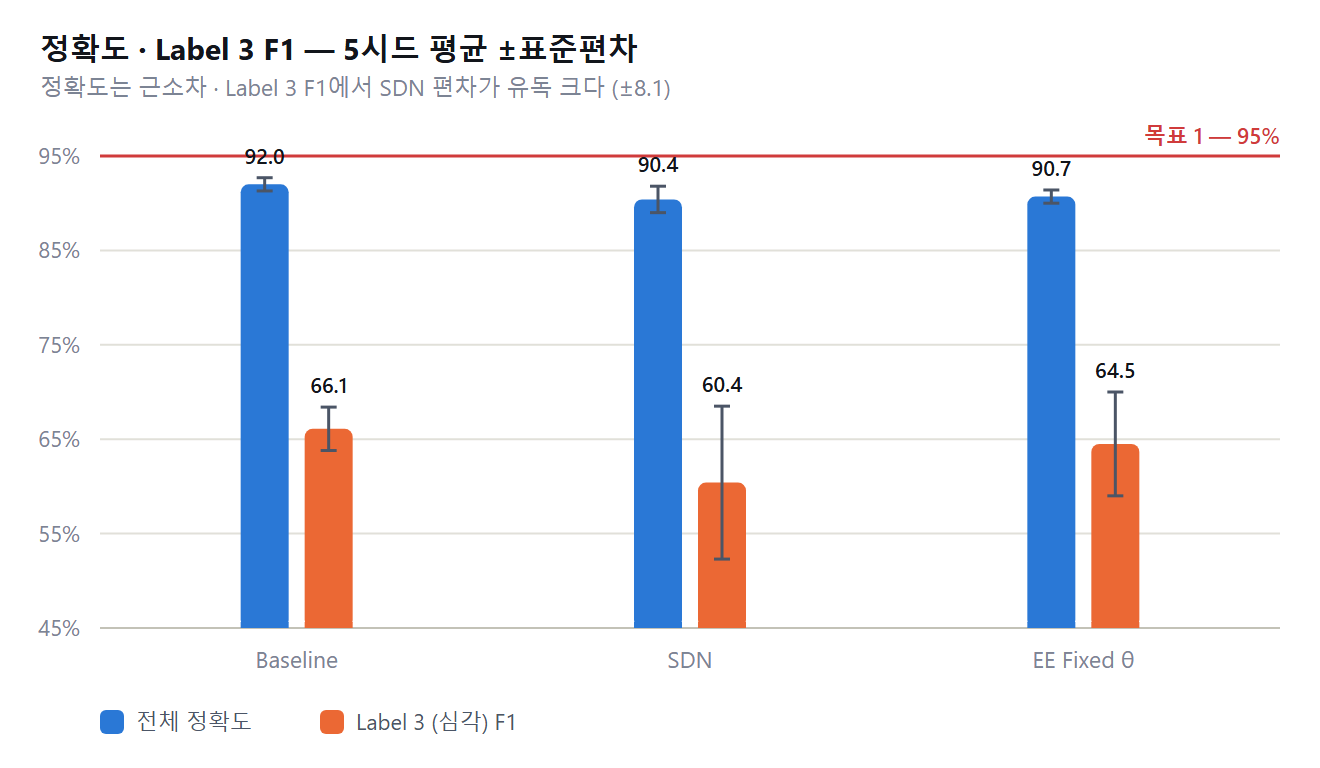
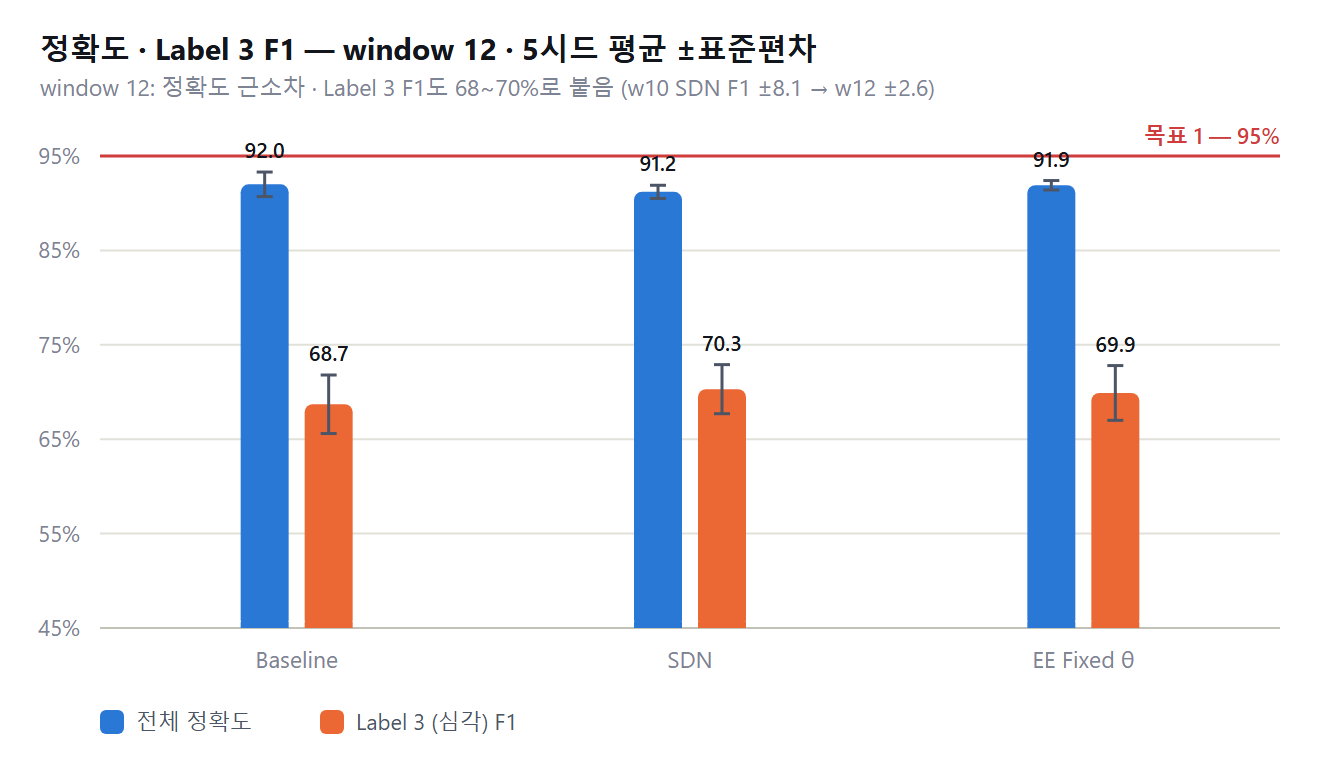
window-12 ripple: single-source WINDOW_SIZE, runtime deque, doc/graph refresh
- utils/ap_features.py: add WINDOW_SIZE = 12 as the single source; prepare +
  ap_dataloader import it instead of a local literal.
- live_congestion.py / demo_server.py (repo + Pi bundle): WINDOW 10 -> 12,
  byte-identical across repo/bundle kept. ONNX still bakes 10 so live
  inference stays blocked until re-export (noted in the constant's comment).
- sdn_comparison.html §02/§04, model_results.html charts+table: w12 numbers,
  Pi-latency marked STALE (w10, Pi offline).
- figures/build_figures.js MODELS -> w12; SVG + 2x PNG regenerated with
  stale-latency subtitles.
- .work-log 15th: split "done" vs "Pi-blocked" (ONNX re-export + latency).

Still Pi-blocked: ONNX re-export, on-Pi verify, latency re-measure, bundle redeploy.

Claude-Session: https://claude.ai/code/session_01GxbAGv5yNDTQzGcJWEdkNi

diff --git a/docs/yongsang/model_results.html b/docs/yongsang/model_results.html
@@ -133,32 +133,32 @@
   <header class="page-head">
     <p class="eyebrow">AP 트래픽 혼잡 분류 — Capstone 2026</p>
     <h1>모델 비교 결과 — 정확도 · 지연</h1>
-    <p><code>ap_model_comparison_redesign2.{txt,csv}</code>와 <code>ap_v2_redesign2_pi_latency_comparison.txt</code>의 수치를 그래프로. 기준 = <b>5시드 평균</b>(power=0.0), 지연은 <b>Raspberry Pi INT8 실측</b>(test 310창).</p>
+    <p><code>ap_model_comparison_redesign2.{txt,csv}</code>의 수치를 그래프로. 기준 = <b>window 12 · 5시드 평균</b>(power=0.0, test 309창, 2026-09-01). ⚠ <b>지연 차트는 window 10 잠정치</b> — window 12 Pi 재측정 대기(Pi 오프라인).</p>
   </header>
 
   <section>
     <h2><span class="step">목표</span> 발표 정량 목표 대비</h2>
     <div class="kpis">
       <div class="kpi">
-        <div class="lab">목표 1 — Pi 환경 혼잡 분류 정확도 ≥ 95%</div>
-        <div class="val">90 ~ 92%</div>
-        <div class="sub miss">✗ 미달 — 5시드 평균 Baseline 92.0 / SDN 90.4 / Proposed 90.7%</div>
+        <div class="lab">목표 1 — Pi 환경 혼잡 분류 정확도 ≥ 95% (발표 시스템 = Early Exit 기준)</div>
+        <div class="val">Proposed 91.9 ~ 92.0%</div>
+        <div class="sub miss">✗ 미달 (~3pt) — EE Fixed 91.9 / Dynamic 92.0 (5시드). w10 대비 +1.2~1.3pt. 상한선 Baseline 92.0 / SDN 91.2.</div>
       </div>
       <div class="kpi">
         <div class="lab">목표 2 — 추론 지연 &lt; 1 ms</div>
         <div class="val">0.54 ~ 0.75 ms</div>
-        <div class="sub hit">✓ 달성 — 4개 모델 전부 &lt; 1 ms (Pi INT8)</div>
+        <div class="sub hit">✓ 달성 (window 10 기준) — 4개 모델 전부 &lt; 1 ms. window 12 재측정 대기, &lt;1ms 유지 전망.</div>
       </div>
     </div>
   </section>
 
   <section>
     <h2><span class="step">01</span> 정확도 vs 지연 — 한 장</h2>
-    <p class="lede">세 모델의 정확도는 오차범위 안에서 겹친다(세로 폭). 갈리는 건 지연(가로) — <b>Proposed(Early Exit)가 가장 빠르다</b>. Proposed의 가치 주장이 "정확도"가 아니라 "속도·효율"인 이유.</p>
+    <p class="lede">세 모델의 정확도는 오차범위 안에서 겹친다(세로 폭). 갈리는 건 지연(가로) — <b>Proposed(Early Exit)가 가장 빠르다</b>. Proposed의 가치 주장이 "정확도"가 아니라 "속도·효율"인 이유. (정확도 = window 12 5시드, 지연 = window 10 잠정.)</p>
     <div class="charts">
       <div class="chart" style="grid-column:1 / -1;">
         <h3>정확도 vs Pi INT8 지연</h3>
-        <p class="csub">세로 막대 = 5시드 표준편차(±1σ) · 가로축 잘림 주의(0.50 ms부터)</p>
+        <p class="csub">정확도 = w12 5시드 · 세로 막대 = ±1σ · 지연 = w10 잠정 · 가로축 0.50 ms부터</p>
         <svg id="c-scatter" viewBox="0 0 640 340" role="img" aria-label="정확도 대 지연 산점도"></svg>
       </div>
     </div>
@@ -166,7 +166,7 @@
 
   <section>
     <h2><span class="step">02</span> 정확도와 희소클래스 안정성</h2>
-    <p class="lede">전체 정확도(파랑)는 셋이 근소차. <b>Label 3(심각) F1</b>(주황)에서 SDN의 편차가 유독 크다(±8.1) — per-model 캘리브레이션 <code>T</code>가 작은 val 셋에서 시드마다 요동하기 때문. Proposed의 entropy θ는 그 캘리브레이션이 불필요.</p>
+    <p class="lede">전체 정확도(파랑)는 셋이 근소차. <b>Label 3(심각) F1</b>(주황)도 window 12에서 68~70%로 붙었다. window 10에선 SDN F1 편차가 ±8.1로 유독 컸는데(per-model 캘리브레이션 <code>T</code>가 작은 val에서 요동), <b>window 12로 전 모델 F1 분산이 절반 이하로</b> (SDN ±2.6, EE ±2.9).</p>
     <div class="charts">
       <div class="chart" style="grid-column:1 / -1;">
         <h3>정확도 · Label 3 F1 — 5시드 평균 ±표준편차</h3>
@@ -181,12 +181,12 @@
   </section>
 
   <section>
-    <h2><span class="step">03</span> Pi INT8 추론 지연</h2>
-    <p class="lede">전부 목표 2(&lt;1 ms) 달성. Early Exit가 Baseline보다 <b>−28%</b>. SDN(0.572)이 Proposed(0.540)보다 느린 건 pooling internal classifier(매 exit마다 ReduceMax+Mean)가 last-timestep linear head보다 무겁기 때문.</p>
+    <h2><span class="step">03</span> Pi INT8 추론 지연 <span style="font-size:0.8rem;color:var(--target);font-weight:600;">⚠ window 10 잠정치</span></h2>
+    <p class="lede">전부 목표 2(&lt;1 ms) 달성. Early Exit가 Baseline보다 <b>−28%</b>. SDN(0.572)이 Proposed(0.540)보다 느린 건 pooling internal classifier(매 exit마다 ReduceMax+Mean)가 last-timestep linear head보다 무겁기 때문. <b>이 수치는 window 10 기준</b> — window 12는 LSTM step 2회 추가라 소폭 증가 예상(여전히 &lt;1ms 전망), Pi 재측정 대기.</p>
     <div class="charts">
       <div class="chart" style="grid-column:1 / -1;">
-        <h3>Pi INT8 평균 추론 지연 (ms / sample)</h3>
-        <p class="csub"><code>capstone@192.168.8.109</code> · test 310창 · 5회 반복 평균 · 2026-08-30</p>
+        <h3>Pi INT8 평균 추론 지연 (ms / sample) — window 10</h3>
+        <p class="csub"><code>capstone@192.168.8.109</code> · 5회 반복 평균 · 2026-08-30 · <b>window 12 재측정 대기</b></p>
         <svg id="c-lat" viewBox="0 0 640 300" role="img" aria-label="Pi INT8 지연 막대 그래프"></svg>
       </div>
     </div>
@@ -194,7 +194,7 @@
 
   <section>
     <h2><span class="step">04</span> Early Exit 종료 지점 분포</h2>
-    <p class="lede">Baseline은 조기종료가 없어 항상 exit 3(3개 LSTM 층 전부). Proposed는 대부분 exit 1~2에서 끝난다 — 이게 속도·연산량 이득의 실체. Dynamic θ는 Fixed보다 더 얕게 빠진다(exit 3 도달 10%).</p>
+    <p class="lede">Baseline은 조기종료가 없어 항상 exit 3(3개 LSTM 층 전부). Proposed는 대부분 exit 1~2에서 끝난다 — 이게 속도·연산량 이득의 실체. Dynamic θ는 Fixed보다 더 얕게 빠진다(exit 3 도달 15%). (window 12 배포 체크포인트 기준.)</p>
     <div class="charts">
       <div class="chart" style="grid-column:1 / -1;">
         <h3>샘플이 어느 exit에서 종료됐나 (%)</h3>
@@ -221,14 +221,14 @@
       <tbody id="tbl"></tbody>
     </table>
     </div>
-    <p style="font-size:0.8rem;color:var(--ink-mute);margin-top:0.8rem;">Dynamic θ는 5시드 특성화 대상이 아님(EE 백본의 threshold 정책) — 값은 배포 체크포인트. 배포 단일 체크포인트 정확도는 test draw 편차로 5시드 평균과 ±1pt 다를 수 있어 <b>5시드 평균을 기준 수치로 인용</b>.</p>
+    <p style="font-size:0.8rem;color:var(--ink-mute);margin-top:0.8rem;">정확도·F1 = window 12 5시드 test 평균(2026-09-01). exit = 배포 체크포인트. <b>Pi 지연(avg/p95) = window 10 STALE</b> — window 12 Pi 재측정 대기(Pi 오프라인). Dynamic θ는 EE 백본의 threshold 정책이라 5시드 표는 참고치. 배포 단일 체크포인트 정확도는 test draw 편차로 5시드 평균과 ±1pt 다를 수 있어 <b>5시드 평균을 기준 수치로 인용</b>.</p>
   </section>
 
-  <div class="callout"><span>▸</span><span><b>서사 한 줄:</b> 세 모델 정확도가 5시드 평균으로 사실상 동급(목표1은 셋 다 미달) → Proposed(Early Exit)의 가치는 정확도가 아니라 <b>속도·효율</b>(목표2 &lt;1ms 달성, Baseline 대비 −28%) + "간섭 감지에 Early Exit LSTM 최초 적용". 모델 3종의 구조적 차이는 <code>sdn_comparison.html</code>.</span></div>
+  <div class="callout"><span>▸</span><span><b>서사 한 줄:</b> window 10→12로 EE 정확도 90.7→91.9~92.0%(+1.2~1.3pt), Label 3 F1 분산은 전 모델 절반 이하로. 세 모델은 5시드 평균으로 여전히 동급(목표1은 셋 다 미달, ~3pt) → Proposed(Early Exit)의 가치는 정확도가 아니라 <b>속도·효율</b> + "간섭 감지에 Early Exit LSTM 최초 적용". 모델 3종의 구조적 차이는 <code>sdn_comparison.html</code>.</span></div>
 
   <footer class="page-foot">
     <span>발표용 이미지(SVG·PNG): <code>docs/yongsang/figures/</code> — 슬라이드·PDF에 바로 삽입</span>
-    <span>수치 정본: <code>project/results/yongsang/ap_model_comparison_redesign2.{txt,csv}</code> · <code>project/results/yongsang/ap_v2_redesign2_pi_latency_comparison.txt</code> · <code>.work-log/current.md</code> 7~9차</span>
+    <span>수치 정본: <code>project/results/yongsang/ap_model_comparison_redesign2.{txt,csv}</code> · <code>.work-log/current.md</code> 15차 (window 12). 지연: <code>ap_v2_redesign2_pi_latency_comparison.txt</code> (window 10, 재측정 대기)</span>
     <span>관련: <code>docs/yongsang/sdn_comparison.html</code> (모델 3종 구조 차이) · <code>docs/yongsang/onnx_early_exit_redesign.html</code> (INT8 배포) · <code>docs/yongsang/system_overview.html</code> (전체 개요)</span>
   </footer>
 </main>
@@ -243,12 +243,15 @@
   function txt(e,s){e.appendChild(document.createTextNode(s));return e;}
   function cssv(n){return getComputedStyle(document.documentElement).getPropertyValue(n).trim();}
 
+  // window 12 (2026-09-01). acc/F1 = 5시드 test 평균 ±std. exit = 배포 체크포인트.
+  // pi/p95 = window 10 STALE — window 12 Pi 재측정 대기 (Pi 오프라인).
   var MODELS=[
-    {key:"baseline",name:"Baseline (EE 없음)",acc:92.0,accSd:0.7,f1:66.1,f1Sd:2.3,pi:0.746,p95:0.754,exits:[0,0,100],basis:"standard full-depth LSTM",fam:"baseline"},
-    {key:"sdn",name:"SDN (논문 충실)",acc:90.4,accSd:1.4,f1:60.4,f1Sd:8.1,pi:0.572,p95:0.858,exits:[36,33,31],basis:"Kaya et al. ICML 2019",fam:"sdn"},
-    {key:"eef",name:"Proposed EE · Fixed θ",acc:90.7,accSd:0.7,f1:64.5,f1Sd:5.5,pi:0.540,p95:0.858,exits:[30,51,19],basis:"제안 — entropy θ 고정",fam:"proposed"},
-    {key:"eed",name:"Proposed EE · Dynamic θ",acc:91.0,accSd:null,f1:69.4,f1Sd:null,pi:0.555,p95:0.913,exits:[32,58,10],basis:"제안 — 트래픽 적응형 θ",fam:"proposed"}
+    {key:"baseline",name:"Baseline (EE 없음)",acc:92.0,accSd:1.3,f1:68.7,f1Sd:3.1,pi:0.746,p95:0.754,exits:[0,0,100],basis:"standard full-depth LSTM",fam:"baseline"},
+    {key:"sdn",name:"SDN (논문 충실)",acc:91.2,accSd:0.7,f1:70.3,f1Sd:2.6,pi:0.572,p95:0.858,exits:[51,32,18],basis:"Kaya et al. ICML 2019",fam:"sdn"},
+    {key:"eef",name:"Proposed EE · Fixed θ",acc:91.9,accSd:0.5,f1:69.9,f1Sd:2.9,pi:0.540,p95:0.858,exits:[31,43,26],basis:"제안 — entropy θ 고정",fam:"proposed"},
+    {key:"eed",name:"Proposed EE · Dynamic θ",acc:92.0,accSd:0.2,f1:69.6,f1Sd:3.6,char5:false,pi:0.555,p95:0.913,exits:[32,53,15],basis:"제안 — 트래픽 적응형 θ",fam:"proposed"}
   ];
+  var PI_STALE=true;
   var FAMC={baseline:"--s-gray",sdn:"--s-orange",proposed:"--s-blue"};
 
   // ---- tooltip ----
@@ -283,7 +286,7 @@
     var svg=document.getElementById("c-scatter"); if(!svg) return;
     var W=640,H=340, L=52,R=18,T=18,B=44;
     var x0=0.50,x1=0.80, y0=88,y1=96;
-    var pts=MODELS.filter(function(m){return m.accSd!=null;});
+    var pts=MODELS.filter(function(m){return m.char5!==false;});
     function px(v){return L+(v-x0)/(x1-x0)*(W-L-R);}
     function py(v){return T+(1-(v-y0)/(y1-y0))*(H-T-B);}
     // grid + y ticks
@@ -330,7 +333,7 @@
     var svg=document.getElementById("c-acc"); if(!svg) return;
     var W=640,H=320,L=44,R=16,T=16,B=54;
     var y0=45,y1=95;
-    var rows=MODELS.filter(function(m){return m.accSd!=null;});
+    var rows=MODELS.filter(function(m){return m.char5!==false;});
     var n=rows.length, band=(W-L-R)/n, bw=22, gap=6;
     function py(v){return T+(1-(v-y0)/(y1-y0))*(H-T-B);}
     for(var yv=45;yv<=95;yv+=10){

diff --git a/docs/yongsang/sdn_comparison.html b/docs/yongsang/sdn_comparison.html
@@ -273,11 +273,11 @@
       <thead><tr><th>항목</th><th>고정값 (양쪽 동일)</th></tr></thead>
       <tbody>
         <tr><td>백본</td><td>3층 단방향 LSTM, <code>hidden_size 128</code>, <code>dropout 0.2</code>, <code>num_classes 4</code></td></tr>
-        <tr><td>입력</td><td>7-feature, window 10 — 텐서 <code>[B, 10, 7]</code> (<code>ap_metrics_v2_redesign2</code>)</td></tr>
+        <tr><td>입력</td><td>7-feature, window 12 — 텐서 <code>[B, 12, 7]</code> (<code>ap_metrics_v2_redesign2</code>, 2026-09-01 10→12)</td></tr>
         <tr><td>학습</td><td>Adam, <code>lr 0.001</code>, <code>batch 32</code>, <code>epochs 50</code>, 체크포인트 선택 = val balanced accuracy</td></tr>
         <tr><td>클래스 가중치</td><td><code>class-weight-power = 0.0</code> (plain CE, 가중치 없음) — 2026-08-30 재스윕 결과, 세 모델 공통</td></tr>
         <tr><td>최종 헤드 (exit 3)</td><td>마지막 timestep hidden → Linear. <b>SDN도 우리도 동일</b> = <code>BaselineLSTM</code> 헤드. SDN 원칙 "기존 네트워크에 IC만 추가, 최종 헤드는 유지".</td></tr>
-        <tr><td>평가</td><td>동일 test split (310창, label3 31개), 동일 리포트 스크립트</td></tr>
+        <tr><td>평가</td><td>동일 test split (309창, label3 31개), 동일 리포트 스크립트</td></tr>
       </tbody>
     </table>
     </div>
@@ -336,41 +336,41 @@
     <h2><span class="step">04</span> 결과 — 어떻게 갈리나</h2>
     <p class="lede">모든 수치 <code>class-weight-power=0.0</code>. <b>5시드 평균</b>을 기준 수치로 인용(단일 체크포인트는 test draw 편차가 있음). 그래프로 보려면 <code>docs/yongsang/model_results.html</code>.</p>
 
-    <h3 style="font-size:0.92rem; margin:1.6rem 0 0.5rem;">5시드 특성화 (시드 0~4 test 평균)</h3>
+    <h3 style="font-size:0.92rem; margin:1.6rem 0 0.5rem;">5시드 특성화 (window 12, 시드 0~4 test 평균 · 2026-09-01)</h3>
     <div class="tw">
     <table class="grid">
-      <thead><tr><th>모델</th><th class="n">정확도</th><th class="n">Label3 F1</th><th class="n">Label3 recall</th><th class="n">Pi INT8 지연</th></tr></thead>
+      <thead><tr><th>모델</th><th class="n">정확도</th><th class="n">Label3 F1 (w10 → w12)</th><th class="n">Label3 recall</th></tr></thead>
       <tbody>
-        <tr><td>Baseline LSTM <span style="color:var(--ink-mute)">(EE 없음)</span></td><td class="n">92.0% ±0.7</td><td class="n">66.1% ±2.3</td><td class="n">54.2% ±3.8</td><td class="n">0.746 ms</td></tr>
-        <tr><td class="sdn">SDN <span style="color:var(--ink-mute)">(논문 충실)</span></td><td class="n">90.4% ±1.4</td><td class="n">60.4% <b>±8.1</b></td><td class="n">45.8% ±8.8</td><td class="n">0.572 ms</td></tr>
-        <tr><td class="ours">Proposed EE (Fixed θ)</td><td class="n">90.7% ±0.7</td><td class="n">64.5% ±5.5</td><td class="n">51.0% ±6.6</td><td class="n"><span class="win">0.540 ms</span></td></tr>
+        <tr><td>Baseline LSTM <span style="color:var(--ink-mute)">(EE 없음)</span></td><td class="n">92.0% ±1.3</td><td class="n">66.1 → 68.7% ±3.1</td><td class="n">57.4% ±3.2</td></tr>
+        <tr><td class="sdn">SDN <span style="color:var(--ink-mute)">(논문 충실)</span></td><td class="n">91.2% ±0.7</td><td class="n">60.4±8.1 → <b>70.3% ±2.6</b></td><td class="n">58.7% ±2.4</td></tr>
+        <tr><td class="ours">Proposed EE (Fixed θ)</td><td class="n">91.9% ±0.5</td><td class="n">64.5±5.5 → 69.9% ±2.9</td><td class="n">55.5% ±3.8</td></tr>
       </tbody>
     </table>
     </div>
-    <p class="axis note">정확도·F1·recall은 시드 0~4 test 평균 ±std. Pi INT8 지연은 배포 체크포인트 1개 실측(<code>capstone@192.168.8.109</code>, test 310창, 2026-08-30). 정확도는 셋 다 <b>오차범위가 겹친다</b> — "동급". Baseline이 항상 3층을 다 돌아 상한선.</p>
+    <p class="axis note">window 10→12 승격(work-log 15차)으로 정확도 +0.8~1.2pt, <b>Label3 F1 분산이 전 모델 절반 이하로</b> (SDN std 8.1→2.6이 극적 — per-model 캘리브레이션 T가 더 긴 window에서 안정). 정확도는 셋 다 <b>오차범위가 겹친다</b> — "동급".</p>
 
-    <h3 style="font-size:0.92rem; margin:2rem 0 0.5rem;">배포 단일 체크포인트 (val balanced acc 최고, fp32)</h3>
+    <h3 style="font-size:0.92rem; margin:2rem 0 0.5rem;">배포 단일 체크포인트 (window 12, val balanced acc 최고, fp32)</h3>
     <div class="tw">
     <table class="grid">
       <thead><tr><th>모델</th><th class="n">정확도</th><th class="n">Label2</th><th class="n">Label3</th><th class="n">exit 1/2/3 (%)</th><th>비고</th></tr></thead>
       <tbody>
-        <tr><td>Baseline (seed3)</td><td class="n">91.6%</td><td class="n">94.0%</td><td class="n">58.1%</td><td class="n">0 / 0 / 100</td><td>L3 F1 65.5%</td></tr>
-        <tr><td class="sdn">SDN (seed3)</td><td class="n">90.3%</td><td class="n">88.9%</td><td class="n">51.6%</td><td class="n">36 / 33 / 31</td><td>캘리브레이션 <code>T = 0.80</code>, L3 F1 65.3%</td></tr>
-        <tr><td class="ours">Proposed EE Fixed θ (seed4)</td><td class="n">90.6%</td><td class="n">90.6%</td><td class="n">54.8%</td><td class="n">30 / 51 / 19</td><td>L3 F1 68.0%</td></tr>
-        <tr><td class="ours">Proposed EE Dynamic θ (seed4)</td><td class="n">91.0%</td><td class="n">91.5%</td><td class="n">54.8%</td><td class="n">32 / 58 / 10</td><td>L3 F1 69.4%</td></tr>
+        <tr><td>Baseline (seed4)</td><td class="n">93.5%</td><td class="n">96.6%</td><td class="n">61.3%</td><td class="n">0 / 0 / 100</td><td>상한선 참고</td></tr>
+        <tr><td class="sdn">SDN (seed2)</td><td class="n">91.6%</td><td class="n">95.7%</td><td class="n">61.3%</td><td class="n">51 / 32 / 18</td><td>캘리브레이션 <code>T = 0.71</code></td></tr>
+        <tr><td class="ours">Proposed EE Fixed θ (seed1)</td><td class="n">91.9%</td><td class="n">93.2%</td><td class="n">51.6%</td><td class="n">31 / 43 / 26</td><td>seed1 test draw가 L3 약함 (5시드 recall 55.5)</td></tr>
+        <tr><td class="ours">Proposed EE Dynamic θ (seed1)</td><td class="n">92.2%</td><td class="n">94.0%</td><td class="n">51.6%</td><td class="n">32 / 53 / 15</td><td>← 발표 평가 대상</td></tr>
       </tbody>
     </table>
     </div>
 
-    <div class="callout warn"><span>⚑</span><span><b>SDN이 뒤처지는 축 ①: 희소 클래스 안정성.</b> SDN의 Label3 F1 편차가 <code>±8.1</code>로 우리(<code>±5.5</code>)의 1.5배. 원인은 축 ③ — per-model 캘리브레이션 <code>T</code>가 작은 val 셋(308창)에서 시드마다 <code>0.71~0.86</code>으로 요동친다. 우리 entropy <code>θ</code>는 그 캘리브레이션이 필요 없어 시드 간 더 일관.</span></div>
+    <div class="callout warn"><span>⚑</span><span><b>SDN이 뒤처지는 축 ①: 희소 클래스 안정성.</b> window 10에선 SDN의 Label3 F1 편차가 <code>±8.1</code>로 우리(<code>±5.5</code>)의 1.5배였다(per-model 캘리브레이션 <code>T</code>가 작은 val에서 시드마다 <code>0.71~0.86</code>으로 요동). <b>window 12로 SDN <code>±2.6</code>·우리 <code>±2.9</code>로 거의 붙었다</b> — 하지만 우리 entropy <code>θ</code>는 애초에 그 캘리브레이션이 필요 없다는 구조적 이점은 유지.</span></div>
 
-    <div class="callout warn"><span>⚑</span><span><b>SDN이 뒤처지는 축 ②: 속도.</b> Pi INT8 실측 <code>0.572 ms</code> vs 우리 <code>0.540 ms</code> (−6%). 원인은 축 ① — SDN의 pooling IC는 매 exit마다 <code>ReduceMax + Mean</code>을 시퀀스 전체에 수행하는데, 우리 exit head는 마지막 timestep 하나만 Linear에 통과시켜 더 가볍다. (셋 다 목표2 <code>&lt;1 ms</code> 달성.)</span></div>
+    <div class="callout warn"><span>⚑</span><span><b>SDN이 뒤처지는 축 ②: 속도.</b> Pi INT8 실측 <code>0.572 ms</code> vs 우리 <code>0.540 ms</code> (−6%). 원인은 축 ① — SDN의 pooling IC는 매 exit마다 <code>ReduceMax + Mean</code>을 시퀀스 전체에 수행하는데, 우리 exit head는 마지막 timestep 하나만 Linear에 통과시켜 더 가볍다. ⚠ <b>이 지연 수치는 window 10 기준</b> — window 12 Pi 재측정 대기(Pi 오프라인). 셋 다 <code>&lt;1 ms</code>는 유지 전망.</span></div>
   </section>
 
   <section>
     <h2><span class="step">05</span> 한 줄 결론</h2>
     <div class="callout good"><span>✔</span><span><b>"기존 조기종료 방법(SDN)과 정확도는 동급인데, exit head가 더 가벼워 더 빠르고(Pi −6%), per-model 캘리브레이션 없이도 희소 클래스에서 더 안정적이며, 트래픽 적응형 임계값(Dynamic θ)까지 쓸 수 있다."</b> — 우리 설계 선택(단순 last-step head · 균등 loss · entropy θ)의 효과를 보여주는 통제 비교이지, "SDN을 이겼다"는 주장이 아니다.</span></div>
-    <p class="axis note" style="margin-top:1rem;">발표에서 Proposed의 가치 주장은 <b>정확도가 아니라 속도·효율</b> (목표2 <code>&lt;1 ms</code> 달성, Baseline 대비 −28%) + "간섭 감지에 Early Exit LSTM 최초 적용". 남은 숙제는 Pi 정확도 95% (현재 90~92%, 세 모델 공통).</p>
+    <p class="axis note" style="margin-top:1rem;">발표에서 Proposed의 가치 주장은 <b>정확도가 아니라 속도·효율</b> (목표2 <code>&lt;1 ms</code> 달성, Baseline 대비 −28% — w10 기준) + "간섭 감지에 Early Exit LSTM 최초 적용". 남은 숙제는 Pi 정확도 95% (window 12로 EE 91.9~92.0%, 세 모델 공통 91~92%).</p>
   </section>
 
   <footer class="page-foot">

diff --git a/docs/yongsang/figures/build_figures.js b/docs/yongsang/figures/build_figures.js
@@ -16,11 +16,13 @@ const C = {
 };
 const FONT = '-apple-system, "Segoe UI", "Malgun Gothic", "Noto Sans KR", system-ui, sans-serif';
 
+// window 12 (2026-09-01). acc/F1 = 5-seed test mean +-std. exits = deploy checkpoint.
+// pi = window 10 STALE (Pi offline -> window 12 latency not re-measured).
 const MODELS = [
-  { key:"baseline", name:"Baseline (EE 없음)", short:"Baseline", acc:92.0, accSd:0.7, f1:66.1, f1Sd:2.3, pi:0.746, exits:[0,0,100], fam:"gray" },
-  { key:"sdn", name:"SDN (논문 충실)", short:"SDN", acc:90.4, accSd:1.4, f1:60.4, f1Sd:8.1, pi:0.572, exits:[36,33,31], fam:"orange" },
-  { key:"eef", name:"Proposed EE · Fixed θ", short:"EE Fixed θ", acc:90.7, accSd:0.7, f1:64.5, f1Sd:5.5, pi:0.540, exits:[30,51,19], fam:"blue" },
-  { key:"eed", name:"Proposed EE · Dynamic θ", short:"EE Dynamic θ", acc:91.0, accSd:null, f1:69.4, f1Sd:null, pi:0.555, exits:[32,58,10], fam:"blue" },
+  { key:"baseline", name:"Baseline (EE 없음)", short:"Baseline", acc:92.0, accSd:1.3, f1:68.7, f1Sd:3.1, pi:0.746, exits:[0,0,100], fam:"gray" },
+  { key:"sdn", name:"SDN (논문 충실)", short:"SDN", acc:91.2, accSd:0.7, f1:70.3, f1Sd:2.6, pi:0.572, exits:[51,32,18], fam:"orange" },
+  { key:"eef", name:"Proposed EE · Fixed θ", short:"EE Fixed θ", acc:91.9, accSd:0.5, f1:69.9, f1Sd:2.9, pi:0.540, exits:[31,43,26], fam:"blue" },
+  { key:"eed", name:"Proposed EE · Dynamic θ", short:"EE Dynamic θ", acc:92.0, accSd:null, f1:69.6, f1Sd:null, pi:0.555, exits:[32,53,15], fam:"blue" },
 ];
 const FAMC = { gray:C.gray, orange:C.orange, blue:C.blue };
 
@@ -80,8 +82,8 @@ function figScatter() {
   g.push(T(W - R, py(95) - 6, "목표 1 — 95%", { anchor: "end", size: 11, fill: C.target, weight: 600 }));
   const LP = {
     baseline: { nameDy: -6, valDy: 9, dx: -14, anch: "end" },
-    sdn: { nameDy: -30, valDy: -16, dx: 0, anch: "middle" },
-    eef: { nameDy: 26, valDy: 40, dx: 0, anch: "middle" },
+    eef: { nameDy: -12, valDy: 2, dx: 13, anch: "start" },
+    sdn: { nameDy: 22, valDy: 35, dx: 13, anch: "start" },
   };
   pts.forEach(m => {
     const cx = px(m.pi), cy = py(m.acc), col = FAMC[m.fam], p = LP[m.key];
@@ -94,7 +96,7 @@ function figScatter() {
     g.push(T(cx + p.dx, cy + p.valDy, `${m.acc.toFixed(1)}% · ${m.pi.toFixed(3)} ms`, { anchor: p.anch, size: 10.5 }));
   });
   return wrap(W, H, "정확도 vs Pi INT8 지연",
-    "세 모델의 정확도는 오차범위 안에서 겹친다 · 세로 막대 = 5시드 ±1σ · 가로축 0.50 ms부터",
+    "정확도 = window 12 5시드 ±1σ · 지연 = window 10 잠정(Pi 재측정 대기) · 가로축 0.50 ms부터",
     g.join("\n"));
 }
 
@@ -134,8 +136,8 @@ function figAcc() {
   g.push(T(L + 18, ly + 1, "전체 정확도", { size: 11, fill: C.ink2 }));
   g.push(el("rect", { x: L + 110, y: ly - 9, width: 12, height: 12, rx: 3, fill: C.orange }));
   g.push(T(L + 128, ly + 1, "Label 3 (심각) F1", { size: 11, fill: C.ink2 }));
-  return wrap(W, H, "정확도 · Label 3 F1 — 5시드 평균 ±표준편차",
-    "정확도는 근소차 · Label 3 F1에서 SDN 편차가 유독 크다 (±8.1)",
+  return wrap(W, H, "정확도 · Label 3 F1 — window 12 · 5시드 평균 ±표준편차",
+    "window 12: 정확도 근소차 · Label 3 F1도 68~70%로 붙음 (w10 SDN F1 ±8.1 → w12 ±2.6)",
     g.join("\n"));
 }
 
@@ -161,8 +163,8 @@ function figLat() {
     g.push(T(cx, top - 8, m.pi.toFixed(3), { anchor: "middle", size: 12, weight: 600, fill: C.ink }));
     g.push(T(cx, H - B + 20, m.short, { anchor: "middle", size: 11 }));
   });
-  return wrap(W, H, "Pi INT8 평균 추론 지연 (ms / sample)",
-    "capstone@192.168.8.109 · test 310창 · 5회 반복 평균 · 전부 목표 2 (<1 ms) 달성 · EE가 Baseline −28%",
+  return wrap(W, H, "Pi INT8 평균 추론 지연 (ms / sample) — window 10 잠정",
+    "capstone@192.168.8.109 · 5회 반복 평균 · 2026-08-30 · window 10 기준 (window 12 Pi 재측정 대기) · 전부 <1 ms",
     g.join("\n"));
 }
 
@@ -199,7 +201,7 @@ function figExit() {
     g.push(T(lx + 18, ly + 1, `${names[j]} (LSTM ${j + 1}층${j === 2 ? ", 최종" : ""})`, { size: 10.5, fill: C.ink2 }));
   });
   return wrap(W, H, "샘플이 어느 exit에서 종료됐나 (%)",
-    "Baseline은 항상 exit 3 (3개 층 전부) · Proposed는 대부분 exit 1~2에서 종료 — 속도·연산량 이득의 실체",
+    "window 12 배포 체크포인트 · Baseline은 항상 exit 3 · Proposed는 대부분 exit 1~2에서 종료 — 속도·연산량 이득의 실체",
     g.join("\n"));
 }
 

diff --git a/project/utils/ap_dataloader.py b/project/utils/ap_dataloader.py
@@ -11,7 +11,7 @@ import numpy as np
 import torch
 from torch.utils.data import DataLoader, TensorDataset
 
-from utils.ap_features import AP_FEATURE_COLUMNS
+from utils.ap_features import AP_FEATURE_COLUMNS, WINDOW_SIZE
 
 
 def _read_rows(path: str | Path) -> list[dict[str, str]]:
@@ -21,7 +21,7 @@ def _read_rows(path: str | Path) -> list[dict[str, str]]:
 
 def load_ap_csv_windows(
     path: str | Path,
-    window_size: int = 12,
+    window_size: int = WINDOW_SIZE,
     feature_columns: Sequence[str] = AP_FEATURE_COLUMNS,
 ) -> tuple[np.ndarray, np.ndarray]:
     """Load pre-windowed AP measurement CSV as model tensors."""
@@ -56,14 +56,14 @@ def get_ap_dataloader(
     data_path: str | Path,
     batch_size: int = 32,
     shuffle: bool = True,
-    window_size: int = 12,
+    window_size: int = WINDOW_SIZE,
 ) -> DataLoader:
     samples, labels = load_ap_csv_windows(data_path, window_size=window_size)
     dataset = TensorDataset(torch.from_numpy(samples), torch.from_numpy(labels))
     return DataLoader(dataset, batch_size=batch_size, shuffle=shuffle)
 
 
-def validate_ap_dataset(path: str | Path, window_size: int = 12) -> dict[str, object]:
+def validate_ap_dataset(path: str | Path, window_size: int = WINDOW_SIZE) -> dict[str, object]:
     samples, labels = load_ap_csv_windows(path, window_size=window_size)
     unique_labels, label_counts = np.unique(labels, return_counts=True)
     feature_min = samples.min(axis=(0, 1))

diff --git a/project/utils/ap_features.py b/project/utils/ap_features.py
@@ -15,6 +15,12 @@ AP_FEATURE_COLUMNS: Tuple[str, ...] = (
     "sta_tx_bitrate_mean",
 )
 
+# Sliding-window length (polls per model input). 2026-09-01: 10 -> 12
+# (window sweep — +1pt accuracy, Label-3 F1 variance halved; .work-log 15th).
+# Single source of truth: prepare/dataloader/live/demo import this.
+# ONNX exporters + Pi bundle still bake 10 — re-export pending (Pi offline).
+WINDOW_SIZE: int = 12
+
 # 2026-08-29: sta_tx_bitrate_mean 승격 (6 -> 7 feature).
 #   가설은 "혼잡할수록 속도가 떨어진다(rate collapse)"였으나 실측(2115행)은
 #   정반대: 혼잡할수록 값이 오히려 올라간다(부하 테스트라 혼잡 구간에서

diff --git a/project/scripts/prepare_ap_metrics_dataset.py b/project/scripts/prepare_ap_metrics_dataset.py
@@ -25,11 +25,10 @@ REPO_ROOT = PROJECT_ROOT.parent
 if str(PROJECT_ROOT) not in sys.path:
     sys.path.insert(0, str(PROJECT_ROOT))
 
-from utils.ap_features import AP_FEATURE_COLUMNS  # noqa: E402
+from utils.ap_features import AP_FEATURE_COLUMNS, WINDOW_SIZE  # noqa: E402
 
 
-WINDOW_SIZE = 12  # 2026-09-01 window sweep: 12 beat 10 on 5-seed acc (91.9 vs 91.0)
-STRIDE = 1        # and collapsed Label-3 F1 variance (1.9 vs 5.0). See .work-log.
+STRIDE = 1  # WINDOW_SIZE comes from utils.ap_features (single source; 10->12 on 2026-09-01)
 TRAIN_RATIO = 0.70
 VAL_RATIO = 0.15
 TEST_RATIO = 0.15

diff --git a/project/demo/demo_server.py b/project/demo/demo_server.py
@@ -62,7 +62,7 @@ FEATURES = (
     "throughput_mbps", "channel_occupancy_percent", "tx_retry_ratio",
     "rssi_dbm", "rssi_delta_db", "rssi_moving_avg_dbm", "sta_tx_bitrate_mean",
 )
-WINDOW = 10
+WINDOW = 12  # match utils.ap_features.WINDOW_SIZE (10->12, 2026-09-01). ONNX re-export pending.
 CONFIRM = 5                              # 라벨 히스테리시스 (표시/제어용 후처리, 모델·평가엔 없음)
 LABELS = ["정상", "경고", "혼잡", "심각"]
 ALLOWED_RATES = {"10M", "20M", "30M", "off"}

diff --git a/project/deploy/raspberry_pi_ap_v2/demo_server.py b/project/deploy/raspberry_pi_ap_v2/demo_server.py
@@ -62,7 +62,7 @@ FEATURES = (
     "throughput_mbps", "channel_occupancy_percent", "tx_retry_ratio",
     "rssi_dbm", "rssi_delta_db", "rssi_moving_avg_dbm", "sta_tx_bitrate_mean",
 )
-WINDOW = 10
+WINDOW = 12  # match utils.ap_features.WINDOW_SIZE (10->12, 2026-09-01). ONNX re-export pending.
 CONFIRM = 5                              # 라벨 히스테리시스 (표시/제어용 후처리, 모델·평가엔 없음)
 LABELS = ["정상", "경고", "혼잡", "심각"]
 ALLOWED_RATES = {"10M", "20M", "30M", "off"}

diff --git a/project/deploy/raspberry_pi_ap_v2/live_congestion.py b/project/deploy/raspberry_pi_ap_v2/live_congestion.py
@@ -60,7 +60,7 @@ AP_FEATURE_COLUMNS = (
     "sta_tx_bitrate_mean",
 )
 
-WINDOW_SIZE = 10
+WINDOW_SIZE = 12  # match utils.ap_features.WINDOW_SIZE (10->12, 2026-09-01). ONNX re-export pending.
 LABEL_NAMES = {0: "정상", 1: "경고", 2: "혼잡", 3: "심각"}
 
 

diff --git a/project/scripts/live_congestion.py b/project/scripts/live_congestion.py
@@ -60,7 +60,7 @@ AP_FEATURE_COLUMNS = (
     "sta_tx_bitrate_mean",
 )
 
-WINDOW_SIZE = 10
+WINDOW_SIZE = 12  # match utils.ap_features.WINDOW_SIZE (10->12, 2026-09-01). ONNX re-export pending.
 LABEL_NAMES = {0: "정상", 1: "경고", 2: "혼잡", 3: "심각"}
 
 

diff --git a/.work-log/current.md b/.work-log/current.md
@@ -62,12 +62,16 @@
 - EE 배포 seed 1은 val balanced 최고인 정직한 pick(seed 0이 test 92.6로 더 높지만 선택 안 함).
 - 배포 EE 단일 체크포인트 L3는 51.6%로 낮음 — seed 1의 test draw. 5시드 평균 L3 recall은 55.5%(w10 52.9 대비 개선).
 
-### 남은 것 (window 변경 ripple — 대부분 하드웨어 대기 / 후속 세션)
-- **ONNX 재수출** — `export_onnx_ap_{unified_int8_v2,sdn_unified_int8,baseline,unified}.py` 등이 입력 shape `[1,10,7]` 하드코딩 → `[1,12,7]`. staged/unified/INT8 재양자화. 배포 checkpoint dir의 옛 w10 ONNX는 삭제됨(archive에 보존).
-- **Pi latency 재측정** — Pi(`capstone@192.168.8.109`) 오프라인. `ap_v2_redesign2_pi_latency_comparison.txt`·`ap_model_comparison_redesign2` 지연 수치 전부 **w10 STALE**. window +2 = LSTM step 2회 추가 → 소폭 증가 예상, <1ms 유지 전망.
-- **비교 문서/그래프 갱신** — `ap_model_comparison_redesign2.{txt,csv}` 재생성함(acc/exit는 w12, Pi/5시드 문자열도 갱신). `docs/yongsang/sdn_comparison.html` §02·§04, `docs/yongsang/model_results.html` 차트·표, `docs/yongsang/figures/*` (build_figures.js `MODELS` 배열) 미갱신.
-- **런타임 window deque** — `live_congestion.py`·`demo_server.py`·`collect_metrics.py`의 window 길이 10→12 (repo + `deploy/raspberry_pi_ap_v2/` 번들 양쪽). ONNX 재수출과 함께.
-- **문서 잔여** — `CLAUDE.md`·`model_features.{md,html}`의 "window 10"·"[1,10,7]"·"test 310창" 일부.
+### 갱신 완료 (2026-09-01 후속)
+- `utils/ap_features.py`에 `WINDOW_SIZE = 12` 단일 상수 추가. `prepare_ap_metrics_dataset.py`·`ap_dataloader.py`가 이걸 import (단일 소스).
+- 런타임 window: `live_congestion.py`·`demo_server.py` 상수 10→12 (repo + Pi 번들 양쪽, 바이트 동일 유지). ⚠ ONNX가 아직 10이라 재수출 전엔 shape 불일치로 라이브 추론 불가 — 주석에 명시.
+- 비교 문서/그래프: `ap_model_comparison_redesign2.{txt,csv}` 재생성(acc/exit w12, Pi/5시드 문자열 갱신+STALE 표기). `sdn_comparison.html` §02·§04, `model_results.html` 차트·표+STALE 배지, `docs/yongsang/figures/*` (build_figures.js `MODELS` w12 + 부제 STALE 표기, SVG/PNG 재생성). `CLAUDE.md`·`model_features.{md,html}` window 언급.
+- `collect_metrics.py`는 window deque 없음 (raw 수집만) — 영향 없음.
+
+### 남은 것 (하드웨어 대기 — Pi 온라인 필요)
+- **ONNX 재수출** — `export_onnx_ap_{unified,unified_int8_v2,sdn,sdn_unified_int8,baseline}.py`가 입력 shape `torch.randn(1, 10, ...)` / `[1, 10, INPUT_SIZE]` 하드코딩 → 12로. staged/unified If/INT8 재양자화. 옛 w10 ONNX는 `*_w10_archived_20260901/`에 보존. PyTorch 대비 로컬 parity는 검증 가능하나 **on-Pi 검증·latency 재측정은 Pi 대기**.
+- **Pi latency 재측정** — Pi(`capstone@192.168.8.109`) 오프라인. `ap_v2_redesign2_pi_latency_comparison.txt`·비교표·그래프 지연 수치 전부 **w10 STALE**. window +2 = LSTM step 2회 추가 → 소폭 증가 예상, <1ms 유지 전망.
+- **Pi 번들 재배포** — ONNX 재수출 후 `deploy/raspberry_pi_ap_v2/` onnx 교체 + Pi scp.
 
 ### 재현
 ```powershell
